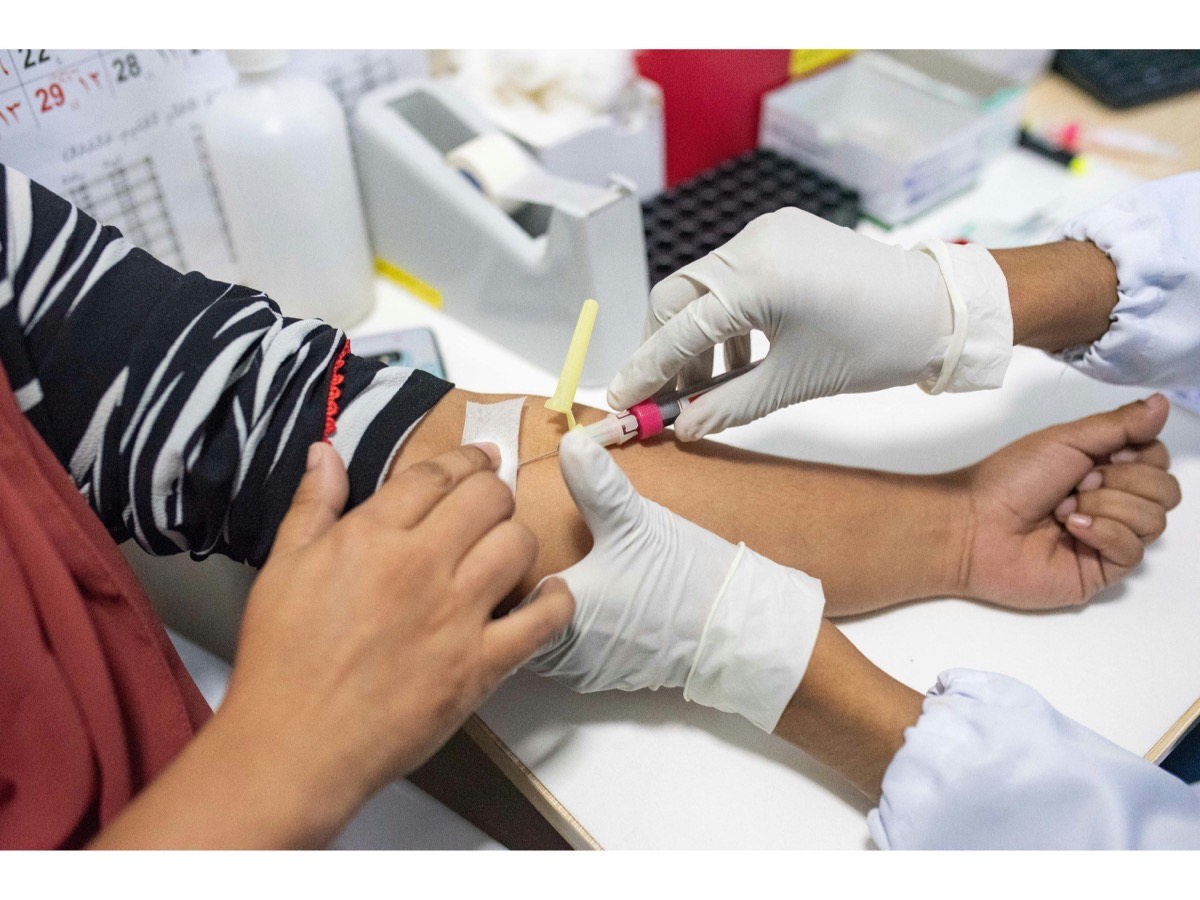
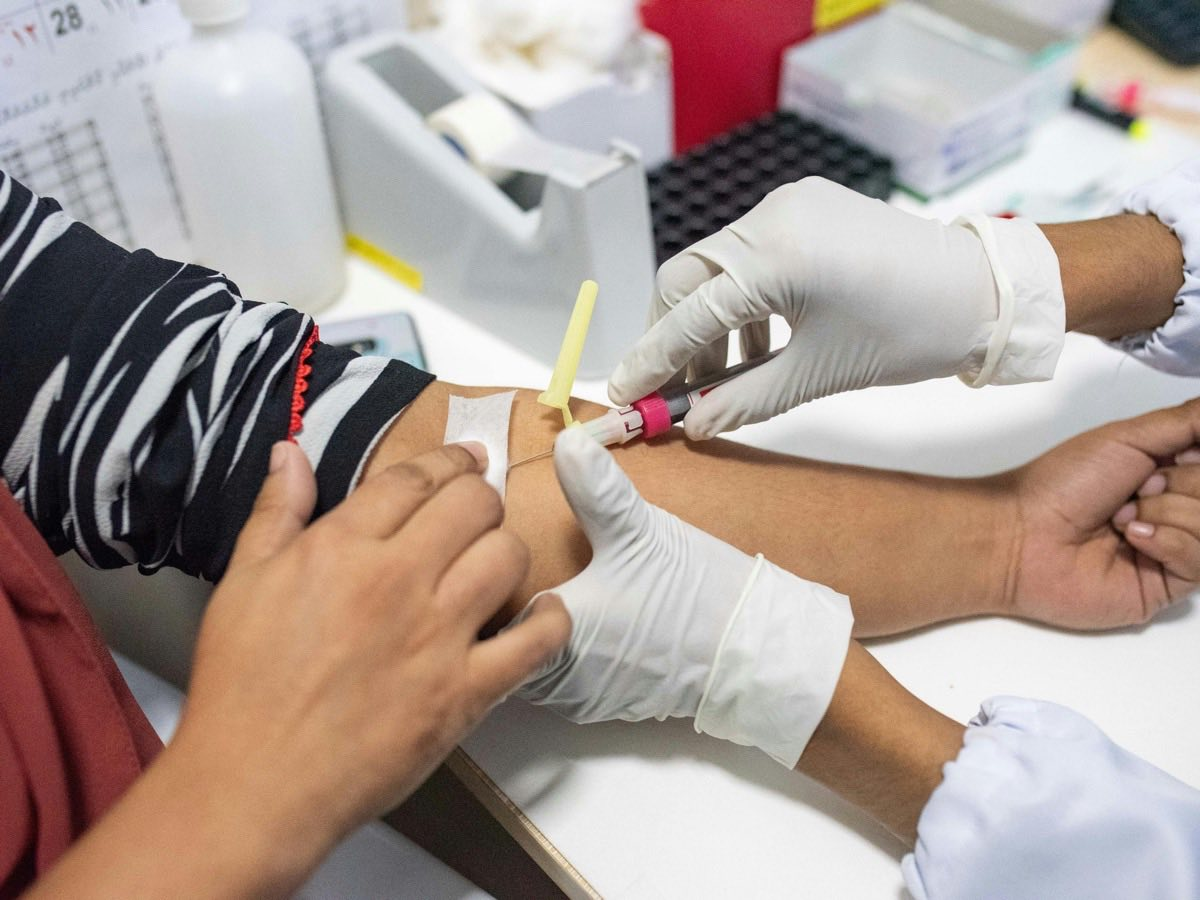
Fix about-2 white bars; correct hormone + drug photo placement
1. about-2.jpg re-cut. The source (Untitled design.jpg) was
   letterboxed like the rest of the batch — ~104px white bars top and
   bottom at source scale — which I missed on the first pass and
   shipped through to the frame. Re-cropped from source to strip them
   and refit 4:3. Verified: zero white margin on all four edges.

2. hormone-testing: the "Thyroid - Test" photo moves from
   #testosterone to #thyroid, where it belongs. #testosterone goes
   back to placeholder.

3. drug-testing: the chain-of-custody clipboard moves from #hair to
   #dot, matching that section's subject. #hair goes back to
   placeholder.

Photo count per page is unchanged; both swaps trade a photo with a
placeholder rather than adding one.

diff --git a/services/hormone-testing.html b/services/hormone-testing.html
@@ -821,7 +821,7 @@
         <div class="fade-up" style="transition-delay: 0.08s;">
           <!-- PENDING: real photo (1200×900) -->
           <figure class="photo-frame">
-            <img src="/brand_assets/svc-hormone-1.jpg" alt="A labelled thyroid test blood sample tube resting on a result form" width="1200" height="900" loading="lazy" />
+            <img src="https://placehold.co/1200x900" alt="Blood sample collected for hormone testing at Surepointe Lab in Pharr, Texas" loading="lazy" />
           </figure>
         </div>
 
@@ -834,9 +834,8 @@
       <div class="split-photo split-photo--photo-left grid gap-14 items-center">
 
         <div class="fade-up" style="transition-delay: 0.08s;">
-          <!-- PENDING: real photo (1200×900) -->
           <figure class="photo-frame">
-            <img src="https://placehold.co/1200x900" alt="Thyroid panel samples prepared for testing at Surepointe Lab in Pharr, Texas" loading="lazy" />
+            <img src="/brand_assets/svc-hormone-1.jpg" alt="A labelled thyroid test blood sample tube resting on a result form" width="1200" height="900" loading="lazy" />
           </figure>
         </div>
 

diff --git a/services/drug-testing.html b/services/drug-testing.html
@@ -829,7 +829,7 @@
         <div class="fade-up" style="transition-delay: 0.08s;">
           <!-- PENDING: real photo (1200×900) -->
           <figure class="photo-frame">
-            <img src="/brand_assets/svc-drug-2.jpg" alt="A sealed specimen cup resting on a drug test chain-of-custody form" width="1200" height="900" loading="lazy" />
+            <img src="https://placehold.co/1200x900" alt="Hair follicle sample collection for drug testing at Surepointe Lab in Pharr" loading="lazy" />
           </figure>
         </div>
 
@@ -908,9 +908,8 @@
         </div>
 
         <div class="fade-up" style="transition-delay: 0.08s;">
-          <!-- PENDING: real photo (1200×900) -->
           <figure class="photo-frame">
-            <img src="https://placehold.co/1200x900" alt="DOT drug testing paperwork and collection area at Surepointe Lab in Pharr, Texas" loading="lazy" />
+            <img src="/brand_assets/svc-drug-2.jpg" alt="A sealed specimen cup resting on a drug test chain-of-custody form" width="1200" height="900" loading="lazy" />
           </figure>
         </div>
 
